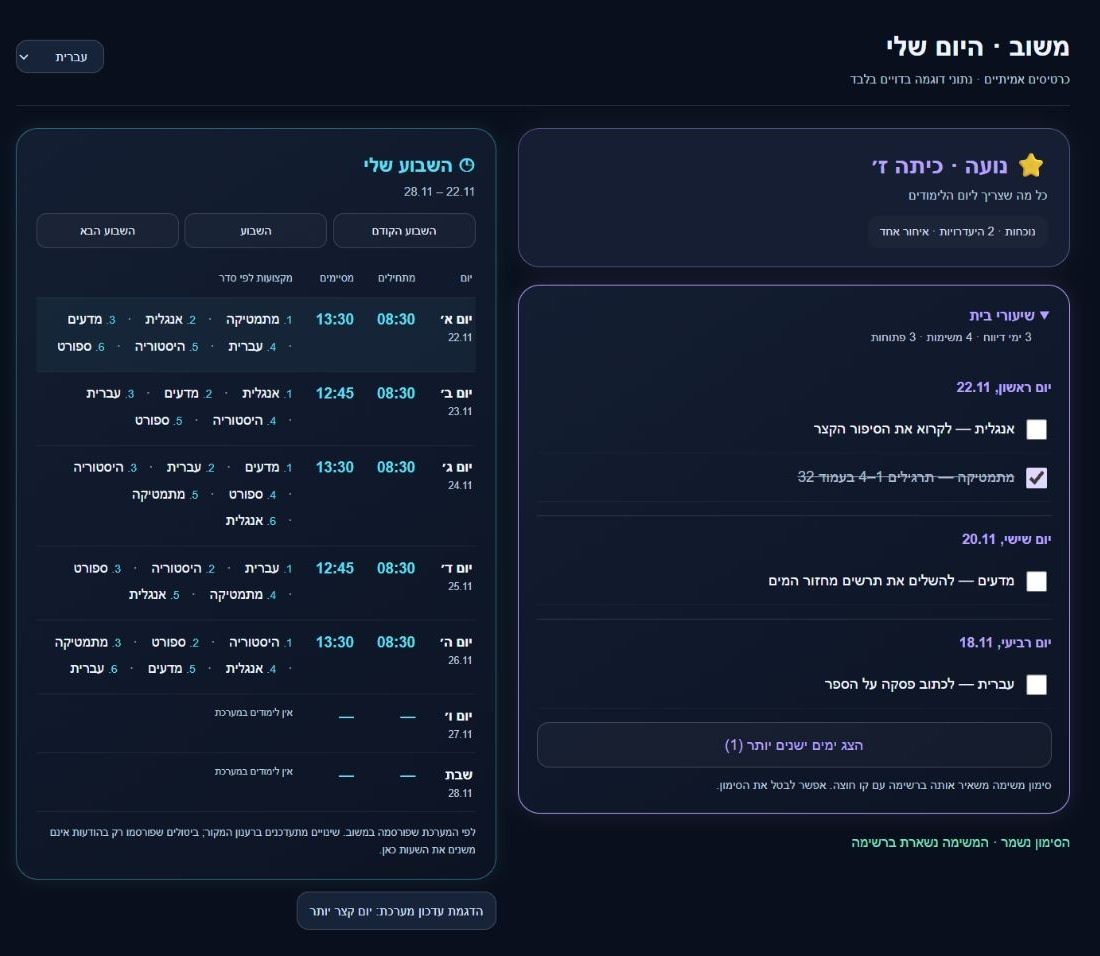
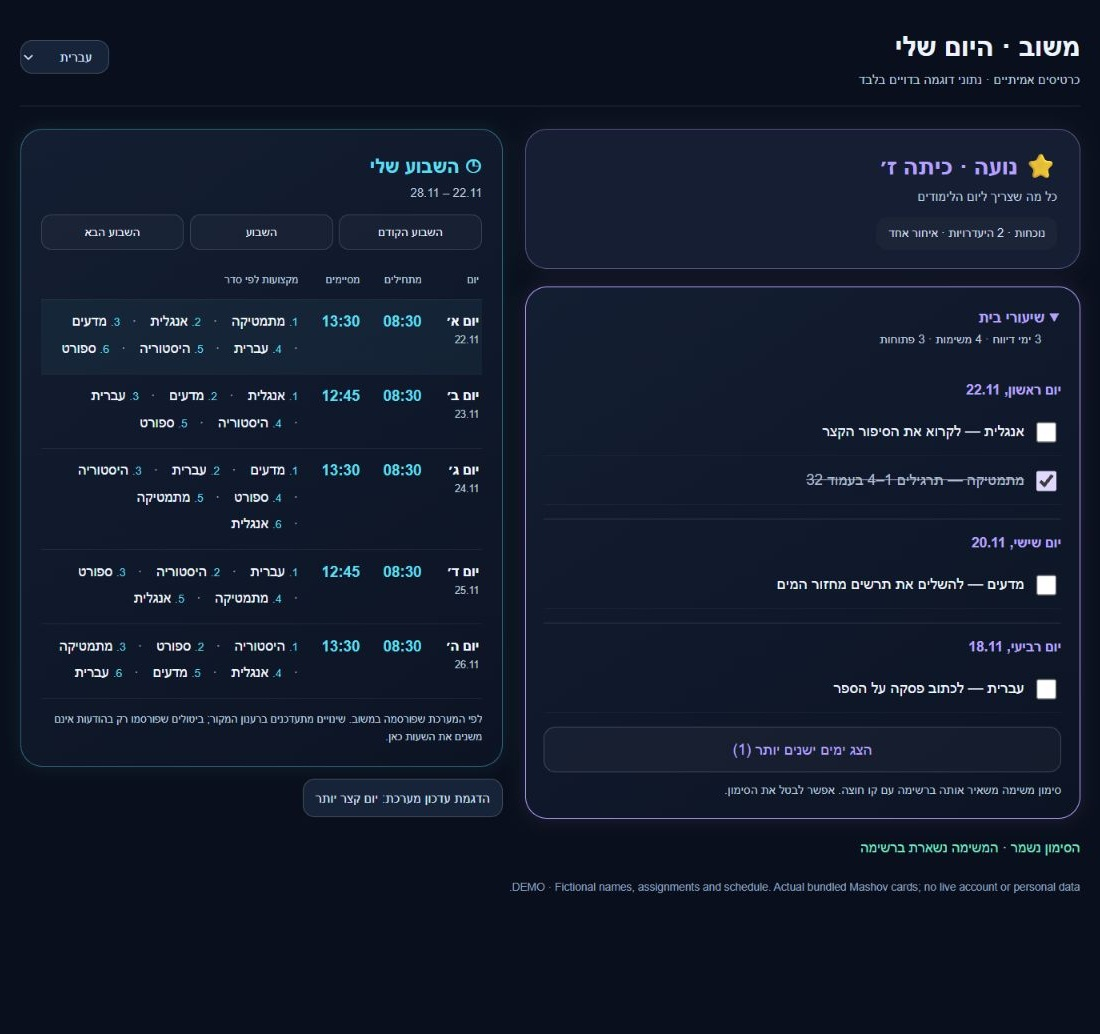
Hide non-school days and restore product-first demo previews

diff --git a/custom_components/mashov/weekly-card.js b/custom_components/mashov/weekly-card.js
@@ -11,6 +11,10 @@ export function dateInZone(now, zone) {
 const addDays = (date, n) => new Date(Date.parse(date + "T12:00:00Z") + n * 86400000).toISOString().slice(0,10);
 const time = value => /^([01]\d|2[0-3]):[0-5]\d(?::[0-5]\d)?$/.test(value || "") ? value.slice(0,5) : "";
 
+export function schoolDays(week) {
+  return week.filter(day => day.lessons.length > 0 && !day.holiday);
+}
+
 export function schoolWeek(schedule, bells, holidays, today, offset = 0, complete = true) {
   const sunday = addDays(today, -new Date(today + "T12:00:00Z").getUTCDay() + offset * 7);
   const slots = new Map((bells || []).map(x => [Number(x.lessonNumber), {start:time(x.startTime),end:time(x.endTime)}]));
@@ -57,18 +61,20 @@ export class MashovWeeklyCard extends HTMLElement {
     const available = s => s && !["unknown","unavailable"].includes(s.state);
     const a = state?.attributes || {};
     const complete = a.weekly_schedule_complete === true;
-    const rows = schoolWeek(a.weekly_schedule || [], available(bells) ? bells.attributes.items : [], available(holidays) ? holidays.attributes.items : [], this._today, this._offset, complete);
+    const week = schoolWeek(a.weekly_schedule || [], available(bells) ? bells.attributes.items : [], available(holidays) ? holidays.attributes.items : [], this._today, this._offset, complete);
+    const rows = schoolDays(week);
     const date = d => new Intl.DateTimeFormat(he ? "he-IL" : "en-GB",{day:"numeric",month:"numeric",timeZone:"UTC"}).format(new Date(d + "T12:00:00Z"));
     const dayName = d => new Intl.DateTimeFormat(he ? "he-IL" : "en-GB",{weekday:"short",timeZone:"UTC"}).format(new Date(d + "T12:00:00Z"));
     const notices = [];
     if (!available(state)) notices.push(t.unavailable);
     else if (!complete) notices.push(t.partial);
+    else if (!rows.length) notices.push(t.none);
     if (this._states.some(s => s?.attributes.data_stale) || (this._config.bells_entity && !available(bells)) || (this._config.holidays_entity && !available(holidays))) notices.push(t.stale);
     if (!available(bells) || !bells.attributes.items?.length) notices.push(t.missing);
     if (rows.some(row => row.variable)) notices.push(t.variable);
     this.shadowRoot.innerHTML = `<style>
       :host{display:block}*{box-sizing:border-box}ha-card{display:block;background:linear-gradient(145deg,#141e32,#0c1424);color:#f1f5ff;border:1px solid ${this._config.accent}66;border-radius:22px;box-shadow:0 0 18px ${this._config.accent}18;padding:18px 14px;overflow:hidden;font:14px/1.6 var(--paper-font-body1_-_font-family,Arial,sans-serif)}h2{color:${this._config.accent};font-size:20px;margin:0 0 2px}.range{color:#bbcadf;font-size:12px}.nav{display:flex;gap:6px;margin:12px 0}button{flex:1;border:1px solid #ffffff25;border-radius:10px;background:#ffffff08;color:#e8f0ff;font:inherit;font-size:12px;padding:7px 3px;cursor:pointer}button:focus-visible{outline:2px solid ${this._config.accent}}table{width:100%;border-collapse:collapse;table-layout:fixed}th,td{text-align:start;vertical-align:top;border-bottom:1px solid #ffffff12;padding:10px 3px}th{color:#bdcde0;font-size:11px;font-weight:400}th:first-child{width:15%}th.time{width:17%}td.time{font-size:15px;color:${this._config.accent};font-weight:700;white-space:nowrap}small{display:block;color:#bbcadf;font-size:10px;font-weight:400}tr.today{background:${this._config.accent}0d}.lesson{display:block;overflow-wrap:anywhere;line-height:1.5;margin-bottom:5px}.number{color:${this._config.accent};font-size:11px}.note{font-size:11px;color:#bdcde0;margin:12px 0 0}.notice{border-inline-start:2px solid ${this._config.accent};padding-inline-start:9px;color:#d3dfef;font-size:12px;margin:10px 0}.holiday{color:#bedcc8}@media(min-width:600px){ha-card{padding:20px}th:first-child{width:13%}th.time{width:14%}.lesson{display:inline-block;margin-inline-end:14px}.lesson+.lesson::before{content:' · ';color:#879ab7;margin-inline-end:8px}}
-    </style><ha-card dir="${he ? "rtl":"ltr"}"><h2>◷ ${esc(this._config.title || t.title)}</h2><div class="range">${date(rows[0].date)} – ${date(rows[6].date)}</div><div class="nav"><button data-week="-1" aria-label="${t.previous}">${t.previous}</button><button data-week="0">${t.today}</button><button data-week="1" aria-label="${t.next}">${t.next}</button></div>${notices.map(n=>`<p class="notice" role="status">${esc(n)}</p>`).join("")}${available(state) ? `<table><thead><tr><th>${t.day}</th><th class="time">${t.start}</th><th class="time">${t.end}</th><th>${t.subjects}</th></tr></thead><tbody>${rows.map(row=>`<tr class="${row.date===this._today ? "today":""}"><td><strong>${dayName(row.date)}</strong><small>${date(row.date)}</small></td><td class="time"><bdi>${row.start || "—"}</bdi></td><td class="time"><bdi>${row.end || "—"}</bdi></td><td>${row.holiday ? `<span class="holiday">${esc(row.holiday)}</span>` : row.lessons.length ? row.lessons.map(x=>`<span class="lesson"><span class="number">${x.lesson}.</span> ${esc(x.subject)}${x.weeks != null ? " *" : ""}${x.room ? `<small>${esc(x.room)}</small>`:""}</span>`).join("") : `<small>${complete ? t.none : "—"}</small>`}</td></tr>`).join("")}</tbody></table>`:""}<p class="note">${esc(t.source)}</p>${a.last_update ? `<small>${t.updated}: ${esc(new Intl.DateTimeFormat(he?"he-IL":"en-GB",{dateStyle:"short",timeStyle:"short",timeZone:this._hass.config?.time_zone || "Asia/Jerusalem"}).format(new Date(a.last_update)))}</small>`:""}</ha-card>`;
+    </style><ha-card dir="${he ? "rtl":"ltr"}"><h2>◷ ${esc(this._config.title || t.title)}</h2><div class="range">${date(week[0].date)} – ${date(week[6].date)}</div><div class="nav"><button data-week="-1" aria-label="${t.previous}">${t.previous}</button><button data-week="0">${t.today}</button><button data-week="1" aria-label="${t.next}">${t.next}</button></div>${notices.map(n=>`<p class="notice" role="status">${esc(n)}</p>`).join("")}${available(state) && rows.length ? `<table><thead><tr><th>${t.day}</th><th class="time">${t.start}</th><th class="time">${t.end}</th><th>${t.subjects}</th></tr></thead><tbody>${rows.map(row=>`<tr class="${row.date===this._today ? "today":""}"><td><strong>${dayName(row.date)}</strong><small>${date(row.date)}</small></td><td class="time"><bdi>${row.start || "—"}</bdi></td><td class="time"><bdi>${row.end || "—"}</bdi></td><td>${row.holiday ? `<span class="holiday">${esc(row.holiday)}</span>` : row.lessons.length ? row.lessons.map(x=>`<span class="lesson"><span class="number">${x.lesson}.</span> ${esc(x.subject)}${x.weeks != null ? " *" : ""}${x.room ? `<small>${esc(x.room)}</small>`:""}</span>`).join("") : `<small>${complete ? t.none : "—"}</small>`}</td></tr>`).join("")}</tbody></table>`:""}<p class="note">${esc(t.source)}</p>${a.last_update ? `<small>${t.updated}: ${esc(new Intl.DateTimeFormat(he?"he-IL":"en-GB",{dateStyle:"short",timeStyle:"short",timeZone:this._hass.config?.time_zone || "Asia/Jerusalem"}).format(new Date(a.last_update)))}</small>`:""}</ha-card>`;
   }
   getCardSize(){return 10;}
   getGridOptions(){return {columns:12,rows:"auto",min_columns:6};}

diff --git a/scripts/encode_card_demo.py b/scripts/encode_card_demo.py
@@ -9,7 +9,7 @@ import argparse
 import json
 from pathlib import Path
 
-from PIL import Image
+from PIL import Image, ImageOps
 
 parser = argparse.ArgumentParser(description=__doc__)
 parser.add_argument("captures", type=Path)
@@ -22,15 +22,28 @@ for lang in ("en", "he"):
         with Image.open(args.captures / f"{lang}-{number:02}.jpg") as image:
             box = (int(rect["x"]), 0, int(rect["x"] + rect["width"]), image.height)
             frames.append(image.crop(box).convert("RGB"))
+    # Full-page captures can grow when the older homework section is expanded.
+    # Keep every state complete and aligned on one canvas instead of clipping it.
+    size = (frames[0].width, max(frame.height for frame in frames))
+    aligned = []
+    for frame in frames:
+        canvas = Image.new("RGB", size, "#090f1c")
+        canvas.paste(frame, (0, 0))
+        aligned.append(canvas)
+    frames = aligned
     suffix = "-he" if lang == "he" else ""
     frames[1].save(out / f"mashov-children-live{suffix}.jpg", quality=94)
-    frames[0].save(
+    # A GIF's first frame is also its static preview in clients that do not animate.
+    # Keep the product overview intact, letterboxed rather than cropped or stretched.
+    with Image.open(out / f"mashov-neon-overview{suffix}.png") as image:
+        poster = ImageOps.pad(image.convert("RGB"), frames[0].size, color="#090f1c", method=Image.Resampling.LANCZOS)
+    poster.save(
         out / f"mashov-children-live{suffix}.gif",
         save_all=True,
-        append_images=frames[1:],
-        duration=[3000, 3500, 4000, 4000, 2500],
+        append_images=frames,
+        duration=[6000, 3000, 3500, 4000, 4000, 2500],
         loop=0,
         optimize=True,
         disposal=2,
     )
-    print(lang, frames[0].size, "5 reviewed UI states / 17 seconds")
+    print(lang, frames[0].size, "product cover + 5 reviewed UI states / 23 seconds")

diff --git a/README.he.md b/README.he.md
@@ -14,9 +14,9 @@
 
 ![הכרטיסים בפעולה: שעות התחלה וסיום שבועיות, סימון שיעורי בית וצפייה בימים ישנים](docs/images/mashov-children-live-he.gif)
 
-ה־GIF מציג שימוש ב**כרטיסים האינטראקטיביים האמיתיים**, עם שמות, משימות ונתוני בית ספר בדויים בלבד. רואים סימון משימה בלי למחוק אותה, פתיחת ימים ישנים וחישוב שעות מחדש אחרי שינוי במערכת שפורסמה. זו הדגמת רכיבים, ללא חיבור לחשבון בית ספר חי.
+ה־GIF נפתח ב**דף המוצר**, המשמש גם כתמונת ברירת המחדל, ואחריו מציג שימוש ב**כרטיסים האינטראקטיביים האמיתיים**, עם שמות, משימות ונתוני בית ספר בדויים בלבד. רואים סימון משימה בלי למחוק אותה, פתיחת ימים ישנים וחישוב שעות מחדש אחרי שינוי במערכת שפורסמה. זו הדגמת רכיבים, ללא חיבור לחשבון בית ספר חי.
 
-- **טבלה שבועית:** מקצועות ושעת התחלה וסיום של כל ילד בכל יום, לפי צלצולי בית הספר. שעות חסרות מסומנות בבירור.
+- **טבלה שבועית:** מקצועות ושעת התחלה וסיום של כל ילד, לפי צלצולי בית הספר. ימים ללא שיעורים מוסתרים; שישי נשאר אם לילד יש בו שיעורים. שעות חסרות מסומנות בבירור.
 - **שיעורי בית:** **3 התאריכים האחרונים שבהם דווחו משימות**, רשימה מתקפלת, תיבות סימון שנשמרות וקו חוצה, וכפתור **הצג ימים ישנים יותר**. בבלופרינט ניתן לבחור 1–14 ימי דיווח.
 - **כפתורי מידע קריאים:** הודעות, ציונים, התנהגות ושיעורי בית נפתחים עם התוכן. מוני נוכחות ושיעורים כוללים פירוט ברור.
 - **בלופרינט של התצוגה:** [ייבוא הבלופרינט החדש](https://my.home-assistant.io/redirect/blueprint_import/?blueprint_url=https%3A%2F%2Fraw.githubusercontent.com%2FNirBY%2Fha-mashov%2Fmain%2Fblueprints%2Fscript%2Fmashov%2Fmashov_live_dashboard.yaml), יצירת סקריפט והפעלתו. נדרשים Mashov **1.6.0+**, Bubble Card **3.4+** ודשבורד UI ריק. [מדריך הגדרה ושדרוג](docs/dashboard.md).

diff --git a/docs/readme-visuals.md b/docs/readme-visuals.md
@@ -6,9 +6,9 @@
 
 The new [English](images/mashov-children-live.gif) and [Hebrew](images/mashov-children-live-he.gif) recordings show the actual bundled homework and weekly cards in a browser. All names, assignments, attendance examples and timetable data come from `scripts/dashboard-demo/index.html` and are fictional. No account, credentials, live school data or child photographs are used. The surrounding demo shell is not the Home Assistant dashboard; the two interactive cards are the production components.
 
-The 17-second sequence shows the expanded recent list, a checked task remaining in place, older homework, a simulated published timetable change recalculating Sunday hours, and the collapsed checklist. The simulated change is not a demonstration of a Shahaf connection or message parsing.
+The 23-second sequence opens with the product overview for six seconds. This first frame is also the default still preview. It then shows the expanded recent list, a checked task remaining in place, older homework, a simulated published timetable change recalculating Sunday hours, and the collapsed checklist. Days without lessons are omitted from the weekly table. The simulated change is not a demonstration of a Shahaf connection or message parsing.
 
-To reproduce: serve the repository locally (`python -m http.server 8766 --bind 127.0.0.1`), open `/scripts/dashboard-demo/`, choose a language, and capture those five interactions in the browser. Review every frame for privacy. `python scripts/encode_card_demo.py CAPTURE_DIRECTORY` crops only the empty side margins and encodes the reviewed states; see its docstring for filenames. [Static English view](images/mashov-children-live.jpg) · [Static Hebrew view](images/mashov-children-live-he.jpg).
+To reproduce: serve the repository locally (`python -m http.server 8766 --bind 127.0.0.1`), open `/scripts/dashboard-demo/`, choose a language, and capture those five interactions in the browser. Review every frame for privacy. `python scripts/encode_card_demo.py CAPTURE_DIRECTORY` crops only the empty side margins, prepends the matching language's product overview without cropping it, and encodes the reviewed states; see its docstring for filenames. [Static English view](images/mashov-children-live.jpg) · [Static Hebrew view](images/mashov-children-live-he.jpg).
 
 ## Earlier illustrated feature tour
 

diff --git a/README.md b/README.md
@@ -12,9 +12,9 @@ Community project; not affiliated with Mashov. [Release notes](RELEASE_NOTES.md)
 
 ![Actual Mashov cards: weekly start/end times, a homework checklist and older homework days](docs/images/mashov-children-live.gif)
 
-This GIF records the **actual interactive cards** using fictional names, homework and school data. It shows checking a task without removing it, opening older homework days, and recalculating hours after a published timetable change. It is a component demo, not a connection to a live school account.
+The GIF opens on the **product overview**, which is also its default still preview, then shows the **actual interactive cards** using fictional names, homework and school data. It shows checking a task without removing it, opening older homework days, and recalculating hours after a published timetable change. It is a component demo, not a connection to a live school account.
 
-- **Weekly school table:** each child's subjects and daily start/end times, using the school's bell schedule. Missing times are labeled.
+- **Weekly school table:** each child's subjects and daily start/end times, using the school's bell schedule. Days without lessons are hidden; Friday remains when that child has lessons. Missing times are labeled.
 - **Homework:** the last **3 dates with homework**, a collapsible list, persistent checkboxes with strike-through, and **Show older days**. The blueprint lets you choose 1–14 recent homework dates.
 - **Readable detail buttons:** messages, grades, behavior and homework open their content; attendance and lesson counters have labeled breakdowns.
 - **Reusable blueprint:** [Import the new-view blueprint](https://my.home-assistant.io/redirect/blueprint_import/?blueprint_url=https%3A%2F%2Fraw.githubusercontent.com%2FNirBY%2Fha-mashov%2Fmain%2Fblueprints%2Fscript%2Fmashov%2Fmashov_live_dashboard.yaml), then create and run its script. Requires Mashov **1.6.0+**, Bubble Card **3.4+**, and an empty UI dashboard. [Setup and upgrade guide](docs/dashboard.md).

diff --git a/docs/dashboard.md b/docs/dashboard.md
@@ -8,7 +8,7 @@ One‑click import (My Home Assistant):
 
 ## What it shows
 
-- A weekly table of each child's subjects, first start time and last finish time, joined to that school's bell schedule. Holidays use the displayed week's actual dates. Missing bell times are marked; lesson numbers and subjects remain visible.
+- A weekly table of each child's subjects, first start time and last finish time, joined to that school's bell schedule. Days without lessons and school holidays are omitted; Friday is shown when that child has lessons. A week with no school days has a clear empty-state message. Holidays use the displayed week's actual dates. Missing bell times are marked; lesson numbers and subjects remain visible.
 - A collapsible checklist for the last **three dates with homework**, including every assignment on those dates. **Show older days** reveals older assignments still in the fetched window. Checking a task strikes it through in place; unchecking reopens it.
 - A greeting card with the current holiday countdown (or days until the next holiday) and a refresh button.
 - One card per student with a steady neon accent, readable text, a live "tomorrow" line and homework/behavior/grade/notice counts. The selected Mashov profile picture is preferred, with the linked person's picture as a fallback.

diff --git a/CHANGELOG.md b/CHANGELOG.md
@@ -11,6 +11,7 @@
 - Updated reusable dashboard blueprint, English/Hebrew documentation and recordings of the actual cards using fictional data only.
 
 ### Fixed
+- The weekly table omits days without lessons, including holidays, while retaining any Friday with scheduled lessons. The README GIFs start with the product overview as their default preview (updated in the existing 1.6.0 release).
 - Child and counter buttons open readable topic dialogs instead of raw sensor history.
 - Attendance totals, justified/unjustified breakdowns, subject/teacher details, lesson counts and profile pictures are included when selected.
 
